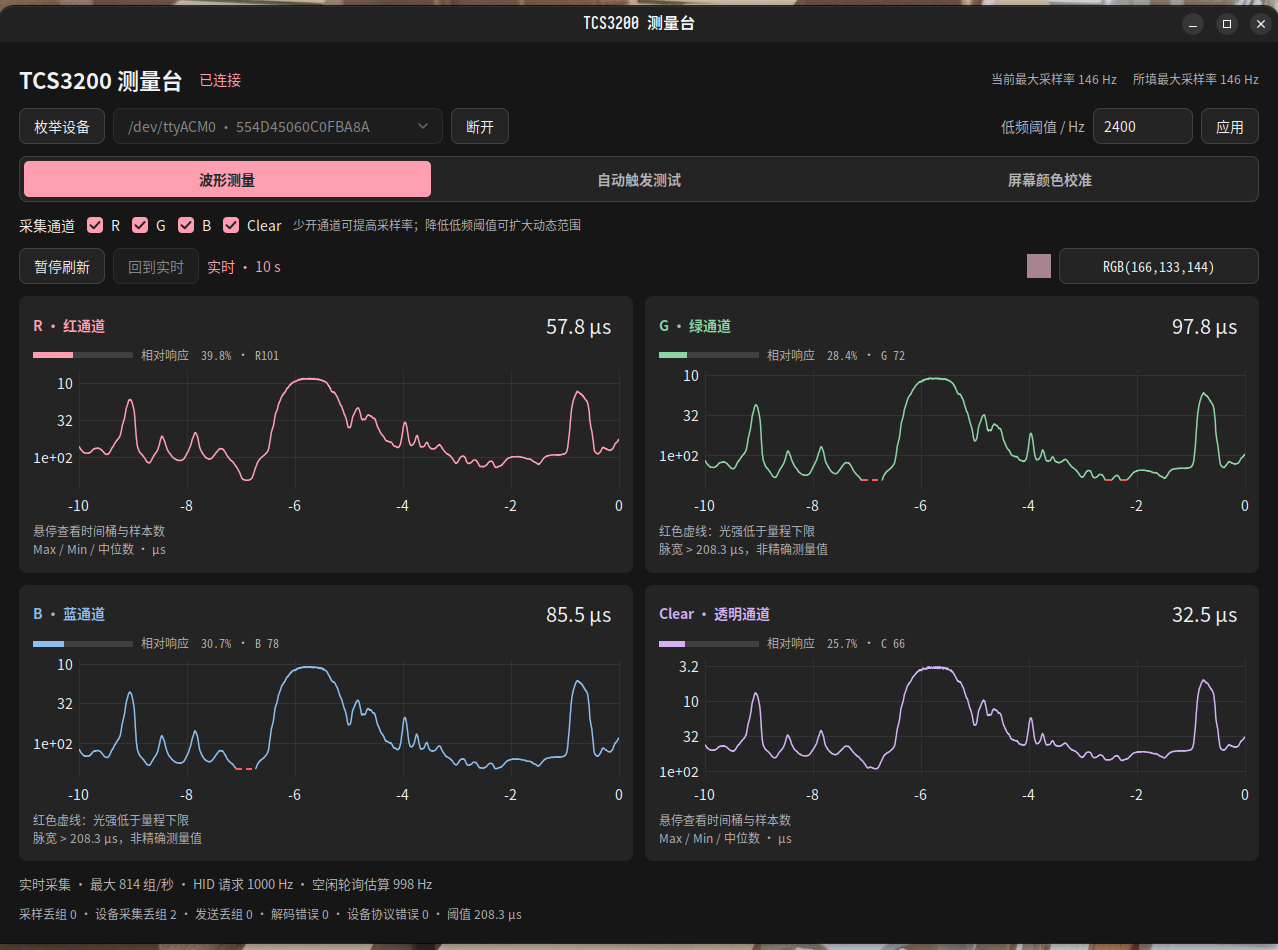
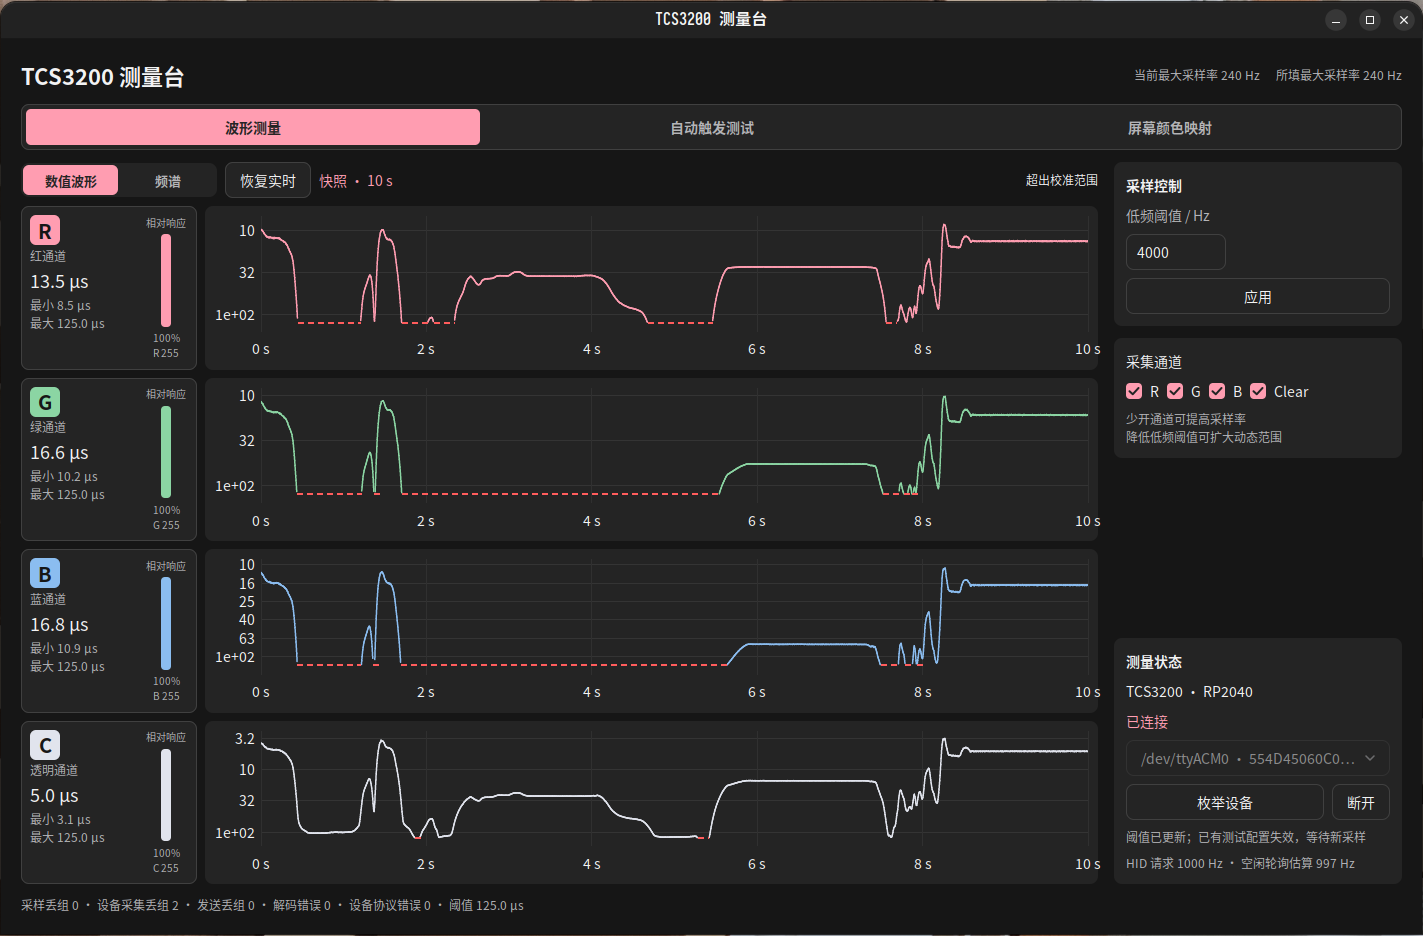
docs: refresh measurement screenshots and add FFT comparison
- Replace the software screenshot and update the 200 Hz screen capture assets to 1633 Hz sampling.
- Display waveform and FFT screenshots side by side and update image references.

diff --git a/README.md b/README.md
@@ -15,13 +15,15 @@ TCS3200 Sensor Kit 使用 TCS3200 传感器和 RP2040-Zero 采集屏幕光信号
 
 ### 屏幕采样实拍
 
-![在 200 Hz 屏幕上以 2020 Hz 采样率采集 UFO Test 页面的实拍照片](docs/images/screen200_sample2020_photo.jpg)
+![在 200 Hz 屏幕上以 1633 Hz 采样率采集 UFO Test 页面的实拍照片](docs/images/screen200_sample1633_photo.jpg)
 
-实拍条件：屏幕刷新率 **200 Hz**，采样率 **2020 Hz**，采样页面为 UFO Test。
+实拍条件：屏幕刷新率 **200 Hz**，采样率 **1633 Hz**，采样页面为 UFO Test。
 
-![上述实拍照片中的采样波形截屏](docs/images/screen200_sample2020_chart.png)
+| 数值波形 | 频谱（FFT） |
+| --- | --- |
+| ![实拍采样的数值波形](docs/images/screen200_sample1633_chart.png) | ![实拍采样的 FFT 频谱](docs/images/screen200_sample1633_fft_chart.png) |
 
-这张波形截屏对应上方实拍中的采样。
+数值波形与频谱截图对应上方实拍中的采样。
 
 ## 外壳与 PCB
 

diff --git a/docs/README.md b/docs/README.md
@@ -13,5 +13,6 @@
 `images/` 保存软件界面和屏幕采样素材，集中展示见 [项目首页](../README.md#软件与实测)。
 
 - [screenshot.png](images/screenshot.png)：软件界面截图。
-- [screen200_sample2020_photo.jpg](images/screen200_sample2020_photo.jpg)：在 200 Hz 刷新率的屏幕上，以 2020 Hz 采样率采集 UFO Test 页面的实拍照片。
-- [screen200_sample2020_chart.png](images/screen200_sample2020_chart.png)：上述实拍照片中的波形截屏。
+- [screen200_sample1633_photo.jpg](images/screen200_sample1633_photo.jpg)：在 200 Hz 刷新率的屏幕上，以 1633 Hz 采样率采集 UFO Test 页面的实拍照片。
+- [screen200_sample1633_chart.png](images/screen200_sample1633_chart.png)：上述实拍采样的数值波形截图。
+- [screen200_sample1633_fft_chart.png](images/screen200_sample1633_fft_chart.png)：上述实拍采样的 FFT 频谱截图，与数值波形在项目首页并列展示。

diff --git a/host/README.md b/host/README.md
@@ -4,7 +4,7 @@ Linux 原生 Go 上位机，基于 MyGo，使用 [USB 协议 v4](../docs/protoco
 
 ![上位机软件界面](../docs/images/screenshot.png)
 
-200 Hz 屏幕、2020 Hz 采样率下的 UFO Test 实拍及对应波形见 [根目录实测展示](../README.md#屏幕采样实拍)。
+200 Hz 屏幕、1633 Hz 采样率下的 UFO Test 实拍、数值波形与 FFT 频谱见 [根目录实测展示](../README.md#屏幕采样实拍)。
 
 ## 运行与构建
 
